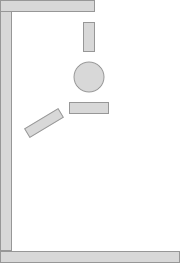
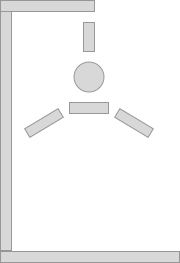
images and disable
the hangman images now change if a guess is wrong, the buttons are now disables if the game has not been started

Changed region(s): [[0.6389, 0.3954, 0.8611, 0.5475]]

diff --git a/hangMan.js b/hangMan.js
@@ -1,15 +1,21 @@
+
+
 var guess, word, guesses = 0,incorrectguesses = 0;
 let wordSplit = [];
 let LettersGuessed = {};
 let display = [];
+let wrongg = 0;
 let goAgain = document.getElementById("BtnAgain");
+document.getElementById("TbxGuess", "btnguess").disabled = true; //disables the buttons before the game has started
 
 function start() {
+	wrongg -= wrongg;
 	guesses -= guesses;
 	word -= word; //resets the word for multiple goes
 	display -= display;
 	wordSplit -= wordSplit;
 	words = prompt("Please enter a word for player two to guess: ");
+	document.getElementById("TbxGuess", "btnguess").disabled = false; //enables the game again
 	word = words.toLowerCase();
 	setup()
 }
@@ -19,6 +25,7 @@ function setup() {
 	document.getElementById("incorrectLetters").innerHTML = (LettersGuessed.new = "Letters that have been guessed: ");
 	wordSplit = word.split("");
 	LettersGuessed.display = " ";
+	document.getElementById("interactiveColor").style.background = "#444";
 	displayUpdate();
 }
 
@@ -30,32 +37,33 @@ function guessing() {
 
 function singleGuess() {
 	var wrongcount = 0; //sets the cout every guess so that if non of the words match the back turns red
-	var valiset = display.length + 1
+	var valiset = display.length + 1; //makes sure that the wrong and correct letters are split
 	for (count = 0; count <= (display.length); count++){
-		if (wordSplit[count] == guess) {
-			display.splice(count, 1, guess);
+		if (wordSplit[count] == guess) { 	//checks each letter compared with the letter that was guessed
+			display.splice(count, 1, guess); //gets red of the _ in the guessed words places and puts it in
 			document.getElementById("interactiveColor").style.background = "green"; //Changes the background colour if correct
-		} else if (guess != wordSplit[count] && LettersGuessed.display.indexOf(guess) === -1) {
+		} else if (guess != wordSplit[count] && LettersGuessed.display.indexOf(guess) === -1) { //gets one insted of the word length ammount
 			LettersGuessed.display += guess;
 			LettersGuessed.new += guess + ", ";
-		} if (guess != wordSplit[count]) {
+		} if (guess != wordSplit[count]) { //gets the wrong guesses
 			 wrongcount++;
-			if (wrongcount == valiset) {
-				document.getElementById("interactiveColor").style.background = "#b14c5a";
+			if (wrongcount == valiset) { //makes sure that the guess is wrong
+				document.getElementById("interactiveColor").style.background = "#b14c5a"; //changes the background of the word display
+				wrongg++;
 			}
 		}
 	}
 	displayUpdate()
 	displayimg()
-
 }
-
 function displayUpdate() {
 	document.getElementById("wordDisplay").innerHTML = (display);
 	document.getElementById("incorrectLetters").innerHTML = (LettersGuessed.new);
 }
-
 function displayimg() {
-	var img = ["hang1.png", "hang2.png", "hang3.png", "hang4.png", "hang5.png", "hang6.png", "hang7.png", "hang8.png", "hang9.png", "hang10.png", "hang11.png"]
-	document.getElementById('hangman').src = img[0];
+	if (wrongg >= 9) {
+		wrongg = 9;
+	} //maxes the img as it will go unidifined
+	var img = ["hang1.png", "hang2.png", "hang3.png", "hang4.png", "hang5.png", "hang6.png", "hang7.png", "hang8.png", "hang9.png", "hang10.png"]
+	document.getElementById('hangman').src = img[wrongg];
 }

diff --git a/index.html b/index.html
@@ -2,7 +2,12 @@
 <html>
 <head>
 	<title>Hangman</title>
+	<meta http-equiv="X-UA-Compatible" content="IE=edge">
+	<meta charset="UTF-8">
 	<meta name="viewport" content="width=device-width, initial-scale=1.0">
+	<meta name="description" content="This is a project that I have done for my portfolio">
+	<meta name="keywords" content="Web Development, Portfolio ,JavaScript, CSS, HTML, North Yorkshire">
+	<meta name="author" content="Oliver Parkinson">
 	<link href="https://fonts.googleapis.com/css?family=Orbitron" rel="stylesheet">
 </head>
 <link rel="Stylesheet" href="HangmanStylesheet.css">
@@ -53,7 +58,7 @@
 		</section>
 		<section class="twelvecol">
 			<div class="heightspace fourcol"></div>
-			<button onclick="guessing(), singleGuess()" class="fourcol">Check letter</button>
+			<button onclick="guessing(), singleGuess()" id="btnguess" class="fourcol">Check letter</button>
 			<div class="heightspace fourcol"></div>
 		</section>
 
